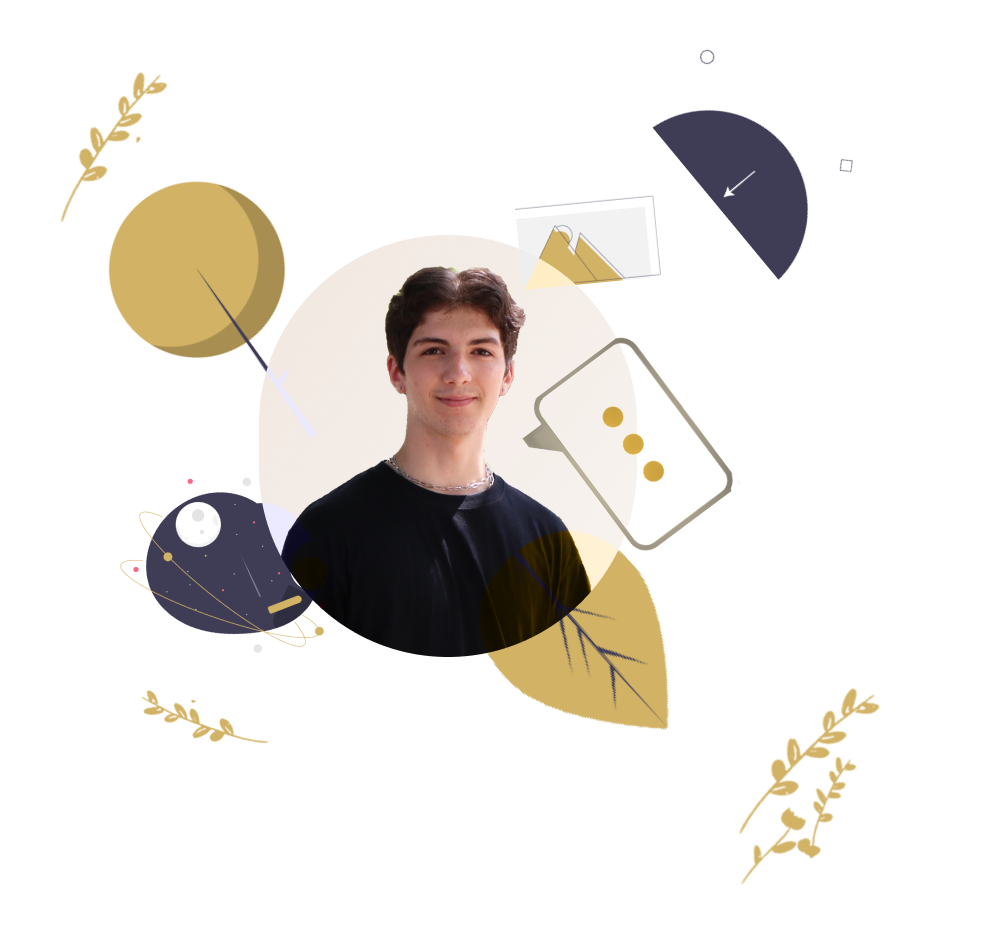
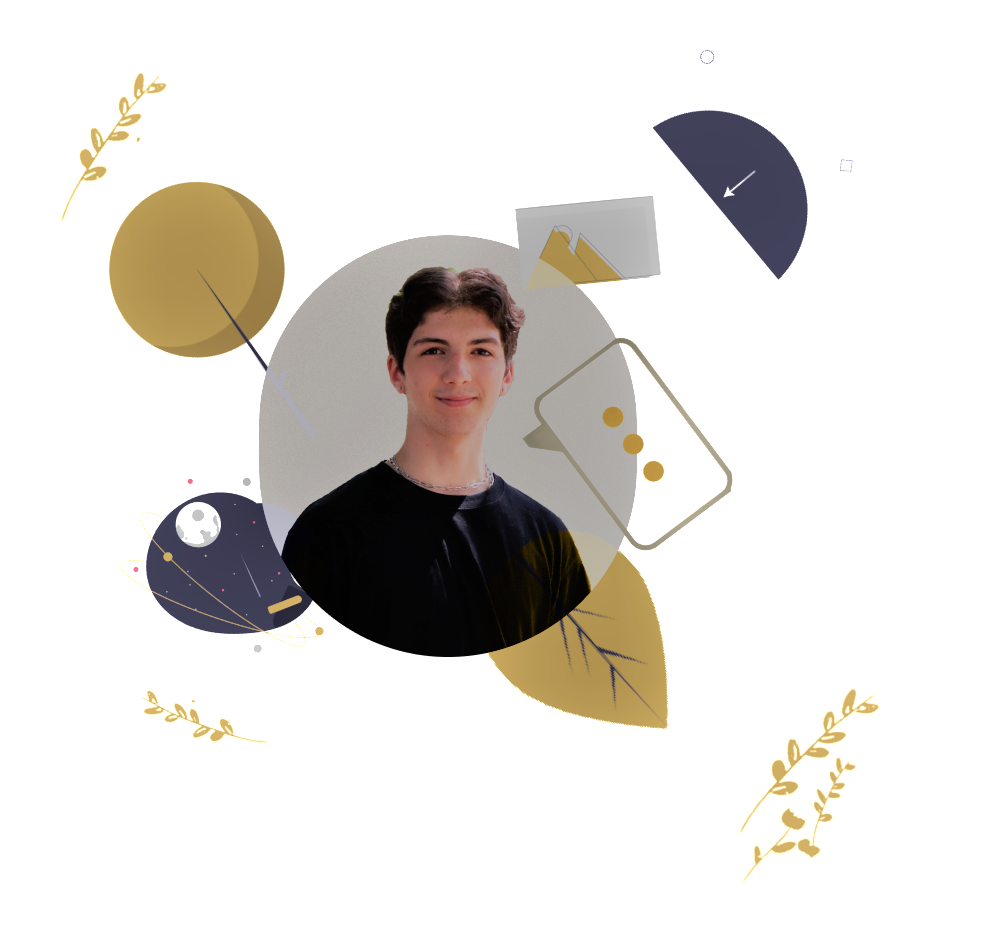
Create and style about section

diff --git a/src/components/About.js b/src/components/About.js
@@ -1,0 +1,51 @@
+import React from 'react';
+import layout from '../images/layout.png';
+
+const About = () => {
+  return (
+    <div id='about' className='grid place-items-center md:grid-cols-2'>
+      <div className='bg-primary-white px-6 md:order-2 lg:px-20'>
+        <h2 className='pt-12 text-4xl relative lg:text-6xl 2xl:text-8xl'>
+          What I am <br /> all{' '}
+          <span className='text-about-span after:absolute after:content- after:w-3 after:h-3 after:bg-about-span after:bottom-3 after:left-36 after:rounded-full lg:after:left-60 2xl:after:left-96 2xl:after:w-5 2xl:after:h-5'>
+            about
+          </span>
+        </h2>
+        <p className='mt-6 text-gray-600 leading-7 lg:text-lg 2xl:text-2xl'>
+          Hello my gorgeous friend! I am a self taught frontend developer. I
+          love to{' '}
+          <span className='bg-gradient-to-r from-hobbies-from-gradient to-hobbies-to-gradient bg-clip-text text-transparent'>
+            meditate
+          </span>{' '}
+          and{' '}
+          <span className='bg-gradient-to-r from-hobbies-from-gradient to-hobbies-to-gradient bg-clip-text text-transparent'>
+            play piano.
+          </span>{' '}
+          I am passionate about{' '}
+          <span className='bg-gradient-to-r from-hobbies-from-gradient to-hobbies-to-gradient bg-clip-text text-transparent'>
+            programming
+          </span>{' '}
+          and
+          <span className='bg-gradient-to-r from-hobbies-from-gradient to-hobbies-to-gradient bg-clip-text text-transparent'>
+            {' '}
+            problem solving
+          </span>{' '}
+          and I’ve come a long way to get here. Thanks for looking me up!
+        </p>
+        <a
+          href='https://www.linkedin.com/in/dragoshcode/'
+          target='_blank'
+          rel='noreferrer'
+          className='mt-6 inline-block  bg-gradient-to-r from-button-primary-from-gradient to-button-primary-to-gradient py-1 px-4 rounded hover:opacity-70 transition-opacity xl:text-xl xl:mt-8'
+        >
+          Learn about me
+        </a>
+      </div>
+      <div className='bg-very-light-brown md:order-1 mt-10 md:mt-0'>
+        <img src={layout} alt='person' className='ml-4' />
+      </div>
+    </div>
+  );
+};
+
+export default About;

diff --git a/src/index.css b/src/index.css
@@ -6,18 +6,21 @@
 
 html {
   font-family: 'Text Me One', sans-serif;
+  scroll-behavior: smooth;
 }
 
 :root {
   --white: #ededed;
   --dark-purple: #2f2e41;
-  --very-light-brown: #F1DCAF;
+  --very-light-brown: #f2e0b9;
   --very-light-orange: #dfc062;
   --hero-number-primary: #b59b64;
   --hero-number-secondary: #bf9239;
-  --button-primary-from-gradient: #DBB54D;
-  --button-primary-to-gradient: #E4B033;
-
+  --button-primary-from-gradient: #dbb54d;
+  --button-primary-to-gradient: #e4b033;
+  --about-span: #d0aa5d;
+  --hobbies-from-gradient: #b79e4d;
+  --hobbies-to-gradient: #c48405;
 }
 
 .slide-left {

diff --git a/src/components/Hero.js b/src/components/Hero.js
@@ -11,7 +11,7 @@ const Hero = () => {
         <h1 className='text-4xl xl:text-5xl'>
           Frontend Engineer & <br /> Web Lover
         </h1>
-        <p className='mt-4 text-gray-600 text-lg pr-20 xl:text-xl xl:mt-8'>
+        <p className='mt-4 text-gray-600 text-lg pr-20 xl:text-xl xl:mt-8 2xl:text-2xl'>
           I'm a tiny frontend dev who is exploring the daily innovations &
           trends of web development. I love my craft{' '}
         </p>

diff --git a/tailwind.config.js b/tailwind.config.js
@@ -14,6 +14,9 @@ module.exports = {
         'hero-number-secondary': 'var(--hero-number-secondary)',
         'button-primary-from-gradient': 'var(--button-primary-from-gradient)',
         'button-primary-to-gradient': 'var(--button-primary-to-gradient)',
+        'about-span': 'var(--about-span)',
+        'hobbies-from-gradient': 'var(--hobbies-from-gradient)',
+        'hobbies-to-gradient': 'var(--hobbies-to-gradient)',
       },
     },
   },

diff --git a/src/components/Header.js b/src/components/Header.js
@@ -31,7 +31,7 @@ const Header = () => {
             </a>
             <a
               href='#'
-              className='text-primary-white bg-dark-purple rounded flex justify-center px-1'
+              className='text-primary-white bg-dark-purple rounded flex justify-center'
               onClick={handleMenu}
             >
               Download Resume

diff --git a/src/App.js b/src/App.js
@@ -1,11 +1,12 @@
 import React from 'react';
-import { Header,Hero } from './components/index';
+import { Header,Hero,About } from './components/index';
 
 const App = () => {
   return (
-    <div>
+    <div className='bg-primary-white'>
       <Header />
       <Hero />
+      <About/>
     </div>
   );
 };

diff --git a/src/components/index.js b/src/components/index.js
@@ -1,2 +1,3 @@
 export { default as Header } from './Header';
 export { default as Hero } from './Hero';
+export { default as About } from './About';
